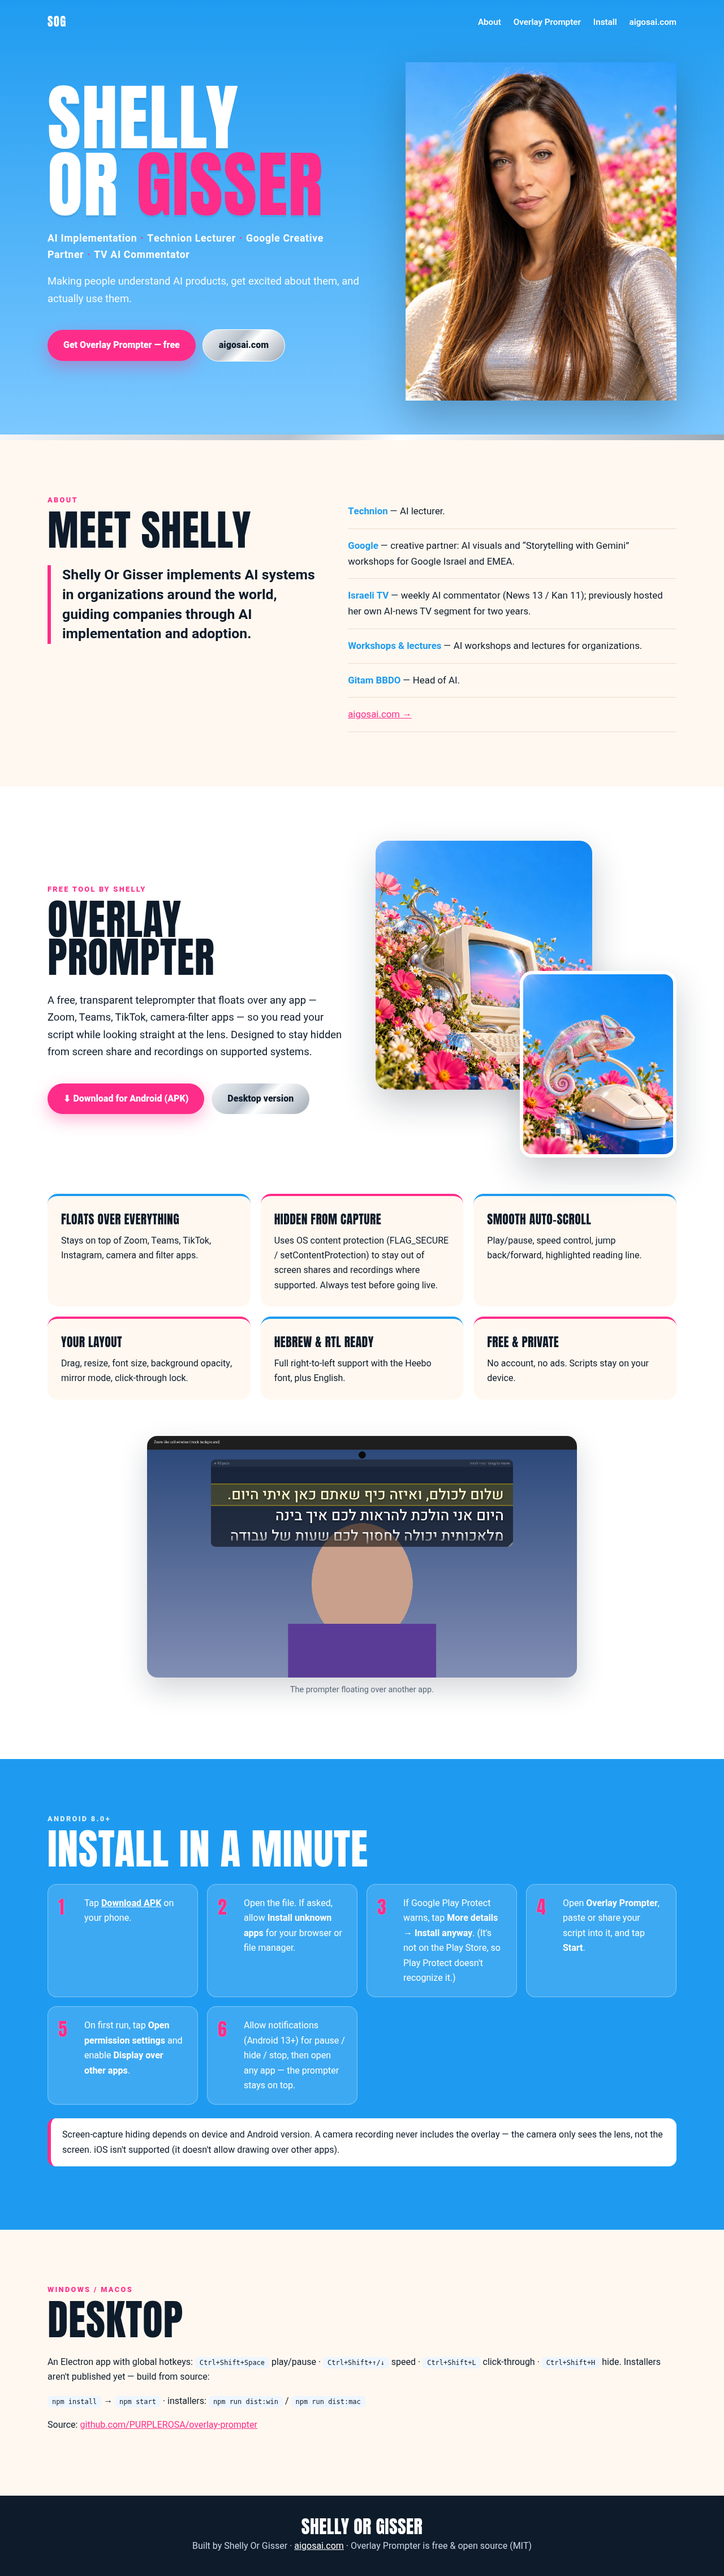
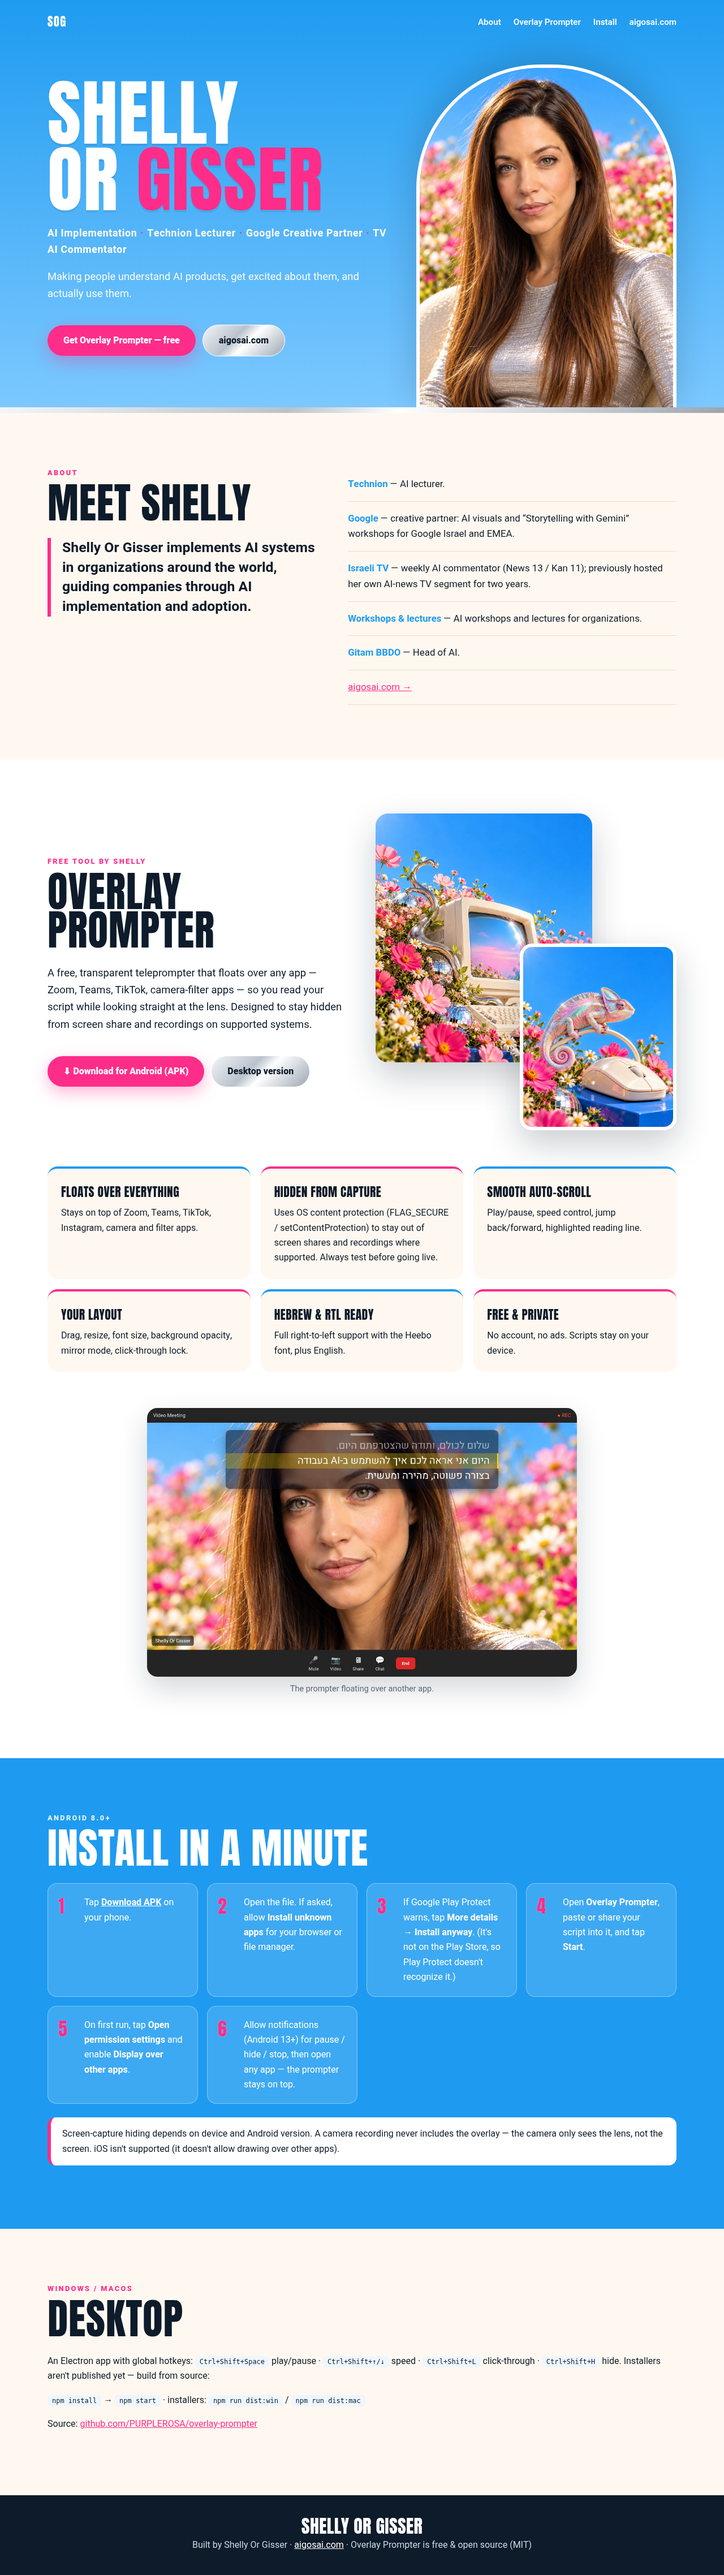
Restore arch hero portrait; replace illustrated demo figure with real video-call demo

Changed region(s): [[0.0625, 0.312, 0.9375, 0.6551], [0.0, 0.0, 1.0, 0.2808]]

diff --git a/docs/index.html b/docs/index.html
@@ -12,15 +12,15 @@ a{color:var(--pink)}img{display:block;max-width:100%}.w{max-width:1160px;margin:
 nav{position:absolute;top:0;left:0;right:0;z-index:5}nav .w{display:flex;justify-content:space-between;align-items:center;padding-top:22px}
 nav .logo{font-family:Anton;font-size:1.3rem;color:#fff;letter-spacing:.06em}nav a.l{color:#fff;text-decoration:none;margin-left:22px;font-weight:600;font-size:.95rem}
 .hero{background:linear-gradient(180deg,var(--sky) 0,var(--sky2) 100%);color:#fff;overflow:hidden;position:relative}
-.hero .w{display:grid;grid-template-columns:1.1fr .9fr;gap:48px;align-items:center;min-height:720px;padding-top:110px}
+.hero .w{display:grid;grid-template-columns:1.15fr .85fr;gap:30px;align-items:end;min-height:720px;padding-top:110px}
 .hero h1{font-size:clamp(4rem,10vw,9.5rem);margin:0;color:#fff;text-shadow:0 4px 0 rgba(13,27,42,.08)}
 .hero h1 span{color:var(--pink)}
 .roles{font-weight:700;font-size:1.1rem;letter-spacing:.04em;margin:22px 0 8px}.roles i{color:var(--pink);font-style:normal;padding:0 6px}
 .hero p.lead{font-size:1.15rem;max-width:560px;opacity:.95}
 .btn{display:inline-block;padding:14px 28px;border-radius:999px;font-weight:800;text-decoration:none;margin:20px 12px 0 0;transition:transform .15s}.btn:hover{transform:translateY(-2px)}
 .btn.p{background:var(--pink);color:#fff;box-shadow:0 10px 28px rgba(255,45,138,.35)}.btn.c{background:var(--chrome);color:var(--ink);border:1px solid #fff}
-.hero .txt{padding-bottom:90px}.portrait{margin-bottom:60px;box-shadow:0 30px 70px rgba(13,27,42,.28)}
-.portrait img{width:100%;height:auto}
+.hero .txt{padding-bottom:90px}.portrait{border-radius:220px 220px 0 0;overflow:hidden;border:6px solid #fff;border-bottom:0;box-shadow:0 -10px 60px rgba(13,27,42,.2)}
+.portrait img{width:100%;height:600px;object-fit:cover;object-position:center top}
 .chrome-bar{height:10px;background:var(--chrome)}
 section{padding:96px 0}.eyebrow{font-weight:800;letter-spacing:.18em;font-size:.8rem;color:var(--pink);text-transform:uppercase}
 h2{font-size:clamp(2.6rem,6vw,4.6rem);margin:8px 0 28px}
@@ -42,7 +42,7 @@ h2{font-size:clamp(2.6rem,6vw,4.6rem);margin:8px 0 28px}
 code{background:#eef6ff;padding:3px 8px;border-radius:6px;font-size:.92em}
 footer{background:var(--ink);color:#c9d6e3;padding:40px 0;text-align:center}footer a{color:#fff}footer .disp{font-size:2rem;color:#fff;margin-bottom:6px}
 @media(max-width:860px){nav a.l{display:none}.hero .w,.about .w,.prod-hero{grid-template-columns:1fr}.hero .w{min-height:0}.hero .txt{padding-bottom:10px}
-.portrait{margin:10px -24px 0;box-shadow:none}.feat{grid-template-columns:1fr}.stack{height:420px}.stack .a{height:320px}.stack .b{height:240px}section{padding:64px 0}}
+.portrait img{height:440px}.feat{grid-template-columns:1fr}.stack{height:420px}.stack .a{height:320px}.stack .b{height:240px}section{padding:64px 0}}
 </style></head><body>
 <nav><div class="w"><span class="logo">SOG</span><span><a class="l" href="#about">About</a><a class="l" href="#prompter">Overlay Prompter</a><a class="l" href="#install">Install</a><a class="l" href="https://aigosai.com">aigosai.com</a></span></div></nav>
 <header class="hero"><div class="w"><div class="txt">
@@ -73,7 +73,7 @@ footer{background:var(--ink);color:#c9d6e3;padding:40px 0;text-align:center}foot
 <div class="card"><h3>Your layout</h3>Drag, resize, font size, background opacity, mirror mode, click-through lock.</div>
 <div class="card"><h3>Hebrew & RTL ready</h3>Full right-to-left support with the Heebo font, plus English.</div>
 <div class="card"><h3>Free & private</h3>No account, no ads. Scripts stay on your device.</div></div>
-<div class="shot"><img src="assets/screenshot.png" alt="Overlay Prompter floating over another app"></div><p class="cap">The prompter floating over another app.</p></div></section>
+<div class="shot"><img src="assets/demo-call.jpg" alt="Overlay Prompter floating over a video call with Shelly Or Gisser"></div><p class="cap">Overlay Prompter floating over a video call.</p></div></section>
 <section class="install" id="install"><div class="w"><div class="eyebrow">Android 8.0+</div><h2 class="disp">Install in a minute</h2>
 <ol class="steps">
 <li>Tap <a href="https://github.com/PURPLEROSA/overlay-prompter/releases/latest/download/overlay-prompter.apk"><b>Download APK</b></a> on your phone.</li>
